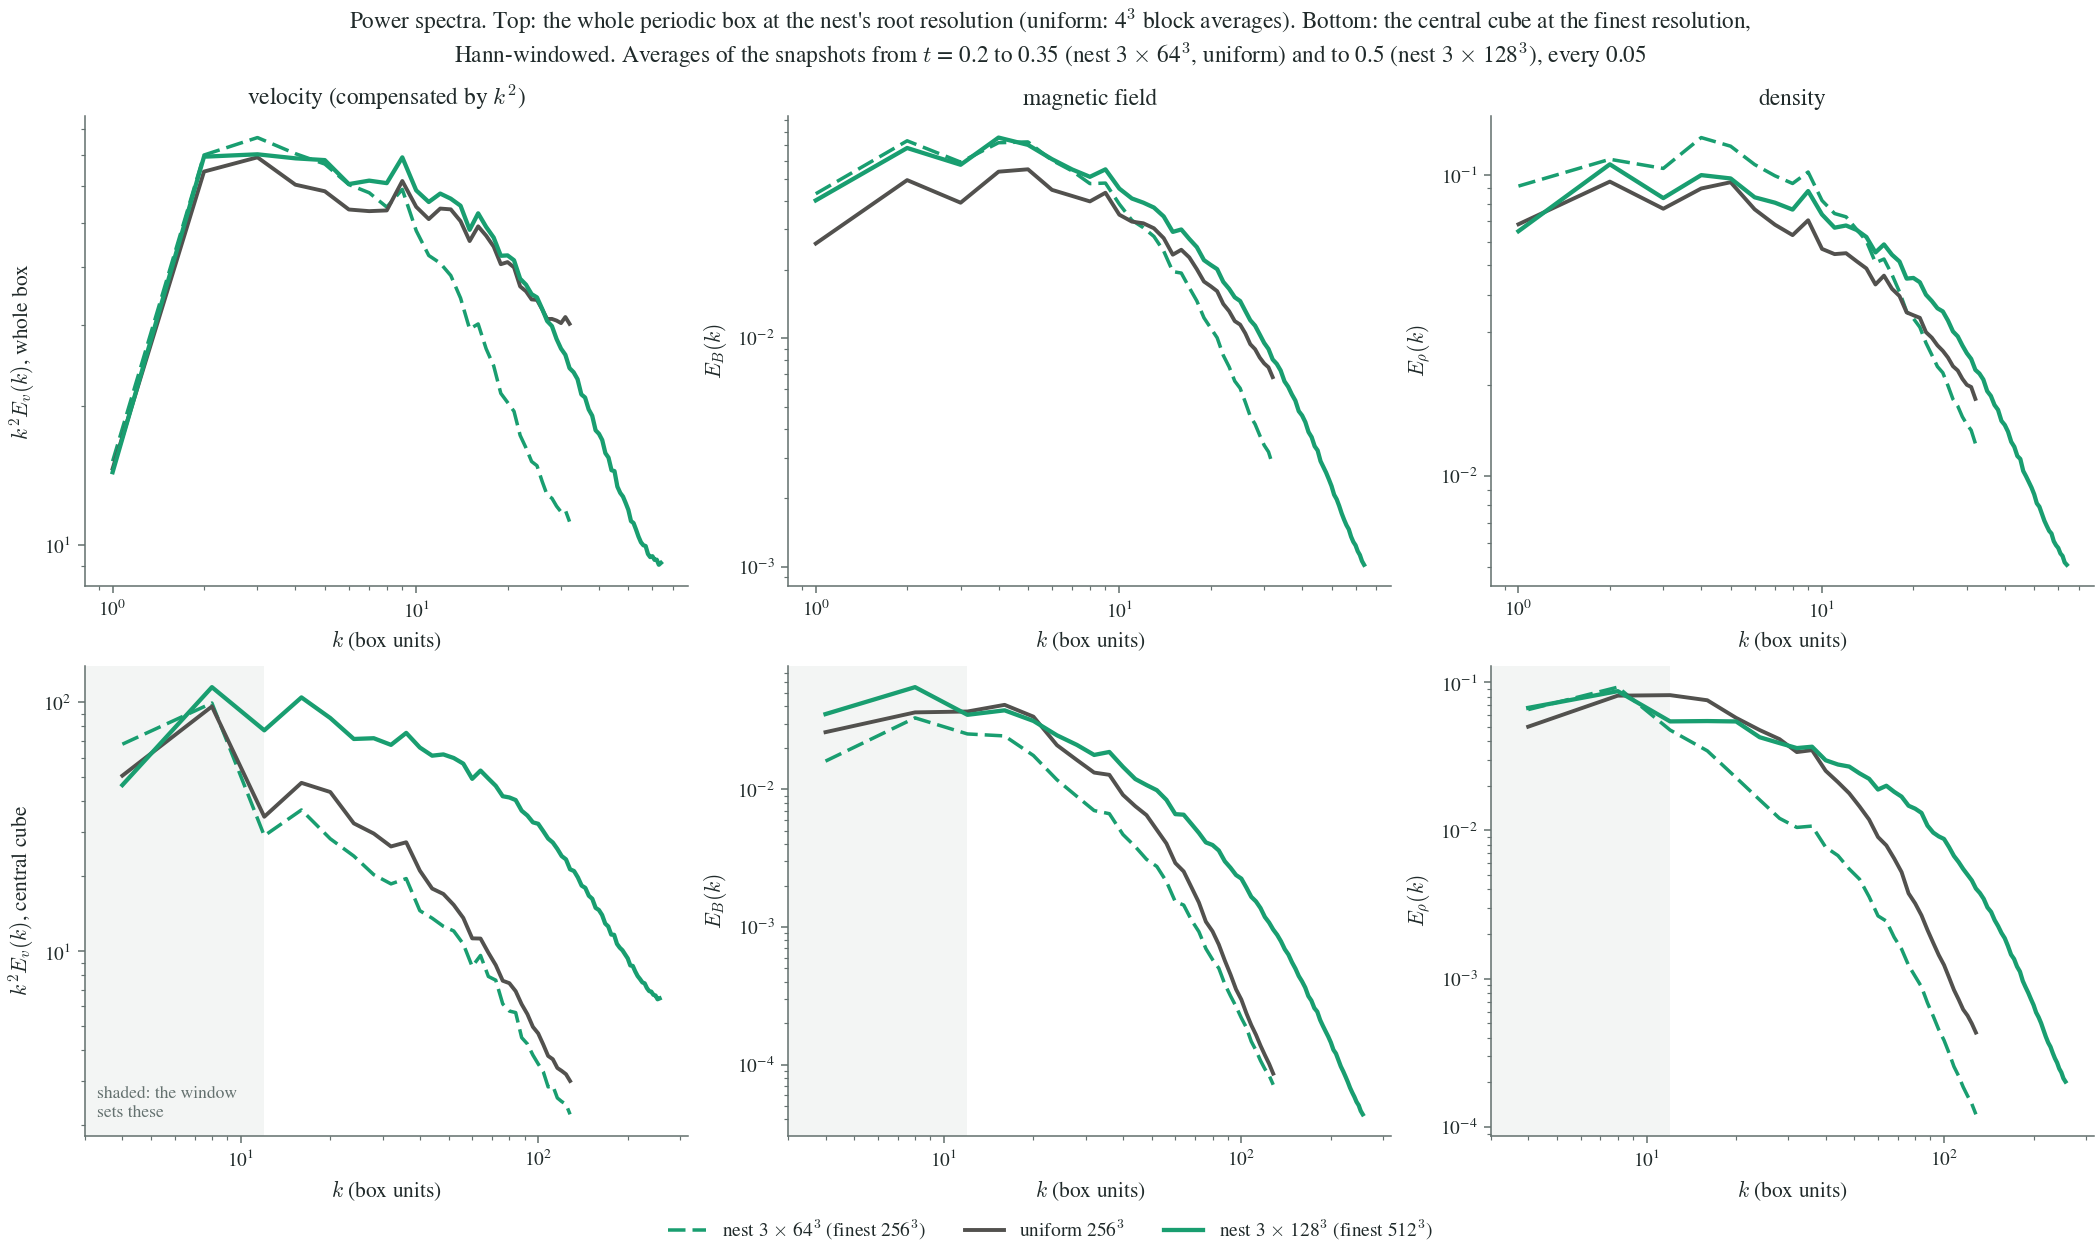
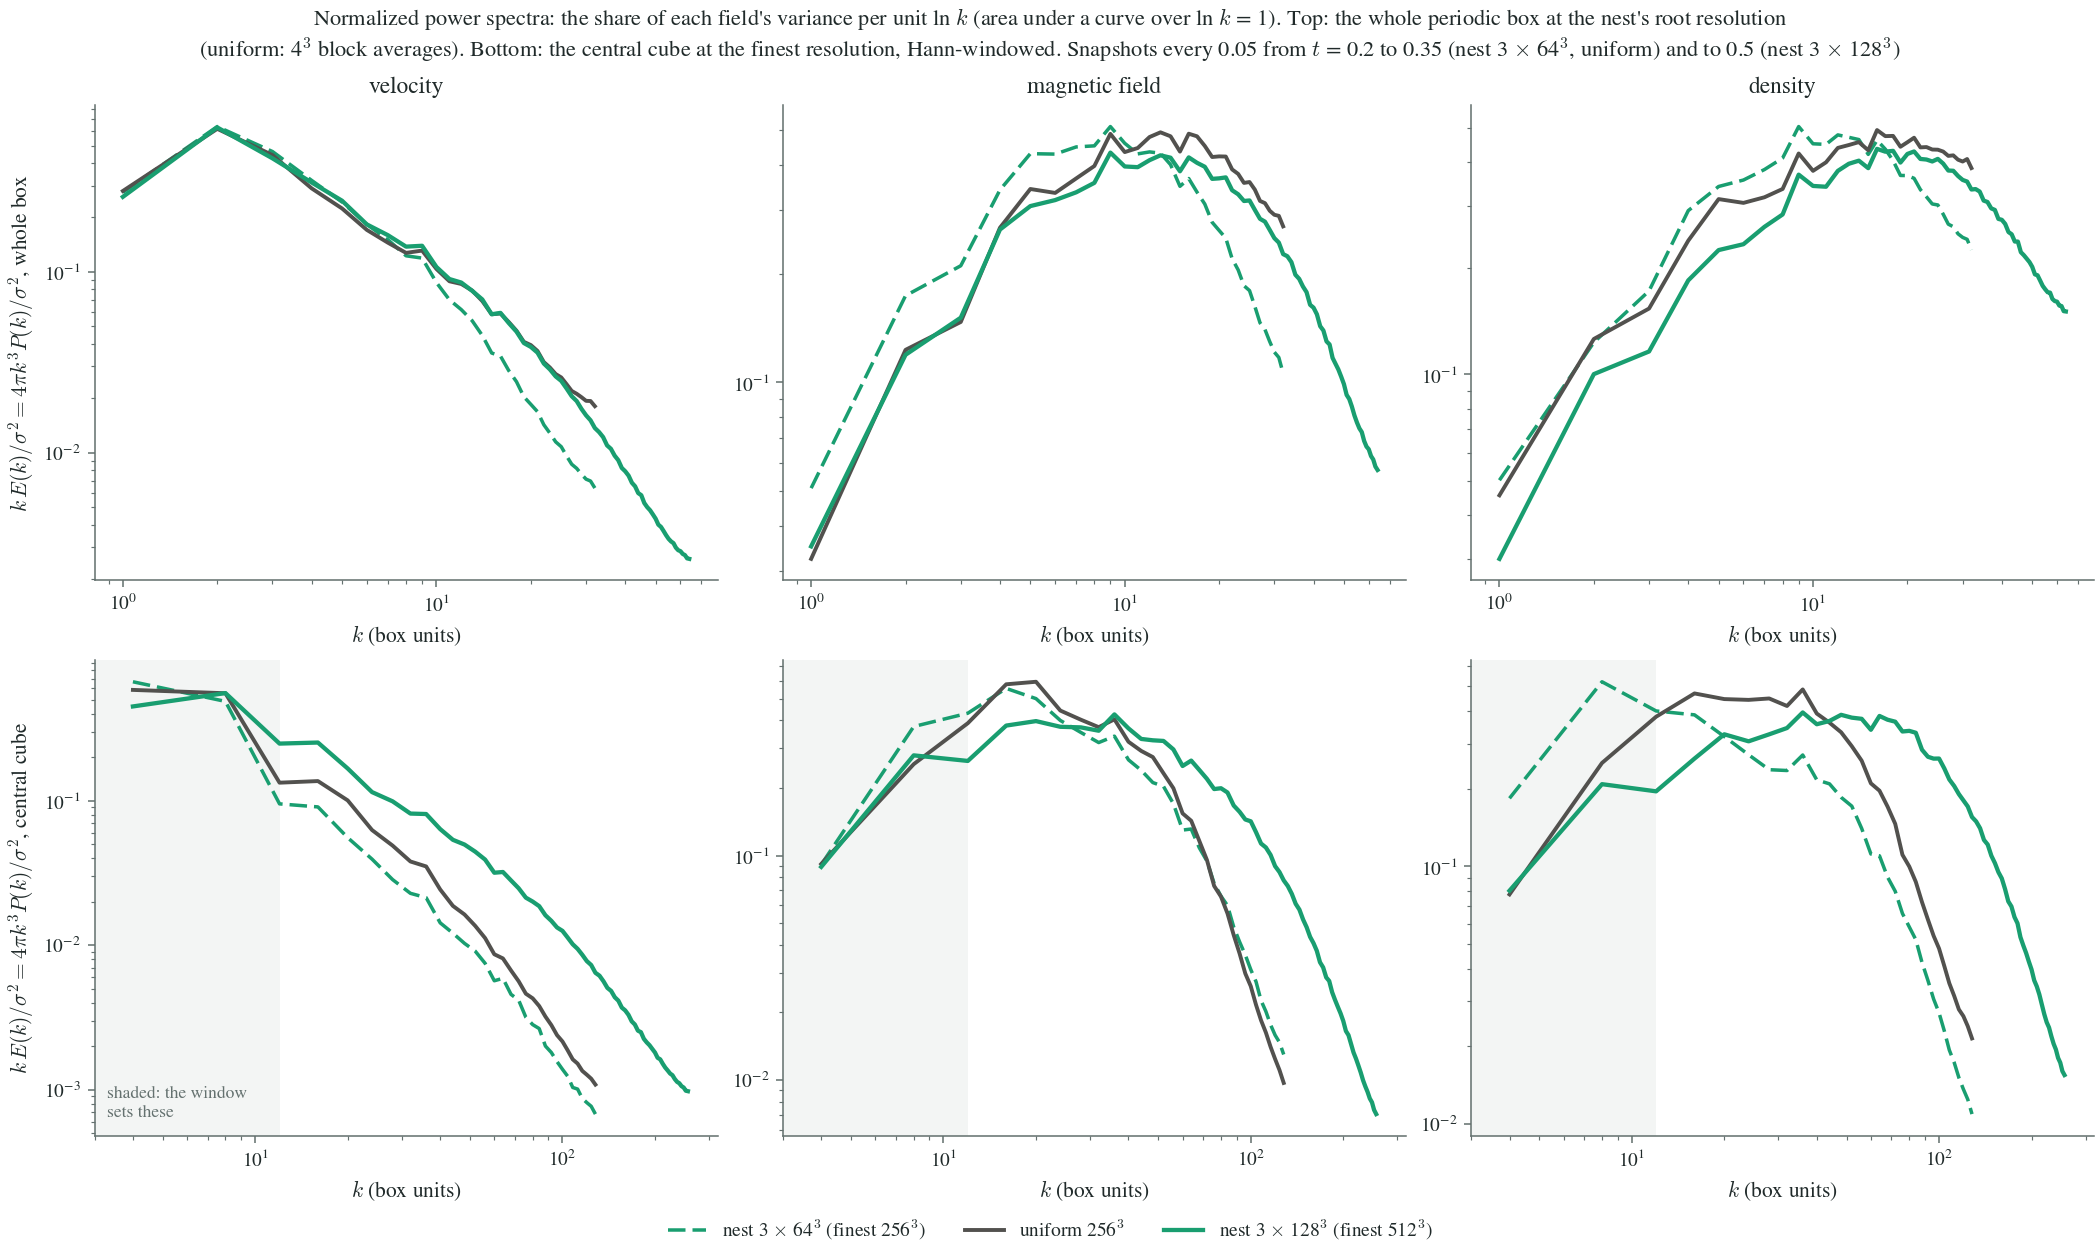
mhd: nested turbulence spectra as normalized variance per ln k

diff --git a/mhd/nested.html b/mhd/nested.html
@@ -20,17 +20,18 @@ Sherlock's H100s, which it had not run on before, fixed what stopped it in 3-D, 
 round-off (5e-05) on every level.</li>
 <li><strong>Large-scale statistics agree.</strong> Over the whole box the rms Mach number is 10.38 (nest) and 10.16 (uniform), and at t = 0.35 the
 rms field is 1.45 and 1.44. The density and speed PDFs of the central cube match.</li>
-<li><strong>Small scales do not, yet.</strong> At wave numbers 32–96 the nest's finest level carries 77 % of the uniform grid's velocity power,
-58 % of its field power and 31 % of its density power at the same resolution (figure 4).</li>
+<li><strong>Small scales do not, yet.</strong> In the central cube at the same resolution, wave numbers 32–96 hold 18 % of the density
+variance in the nest's finest level and 31 % in the uniform grid; for the velocity 1.2 % and 1.9 %, for the field
+22 % and 25 % (figure 4).</li>
 <li><strong>The uniform grids are the slow part.</strong> The uniform 256³ run stalled at t = 0.35; the uniform 512³ run reached no output in about 2 hours. Nearly empty cells
 (ρ near the floor of 10⁻⁶) make the Alfvén speed, and so the time step, collapse. The 3 × 128³ nest meets them too (figure 5).</li></ul></div><article class="card test-movie" id="movie-nest64"><h3>Movie: nest 3 × 64³ (finest 256³-equivalent)</h3>
-<video controls loop muted playsinline preload="metadata" poster="media/nested/nest64-movie.png?v=1794520634" style="width:100%;height:auto;max-height:80vh;object-fit:contain"
-aria-label="Movie: nest 3 × 64³ (finest 256³-equivalent)"><source src="media/nested/nest64-movie.mp4?v=1794520634" type="video/mp4"><a href="media/nested/nest64-movie.mp4">Download the movie</a></video>
+<video controls loop muted playsinline preload="metadata" poster="media/nested/nest64-movie.png?v=1794521017" style="width:100%;height:auto;max-height:80vh;object-fit:contain"
+aria-label="Movie: nest 3 × 64³ (finest 256³-equivalent)"><source src="media/nested/nest64-movie.mp4?v=1794521017" type="video/mp4"><a href="media/nested/nest64-movie.mp4">Download the movie</a></video>
 <p>Density and field strength in the mid-plane z = 1/2, from the uniform start to developed turbulence. 501 frames, one every 0.002 from t = 0 to 1, played at 25 per second.
 Every level is drawn in its own place at the finest resolution (coarser levels as blocks); dashed squares mark levels 2 and 3. The colour scales are fixed.
 This is a rerun of the same set-up with outputs every 0.002; stopping that often changes the time steps slightly, so it does not follow the run of the figures
 below in detail.</p>
-<p><a href="media/nested/nest64-movie.mp4?v=1794520634" download>Download MP4 · 10.6 MB</a></p></article><article class="card paper-fig" id="nested-overview"><div class="fig-head"><span class="fig-no">1</span><h3>What the 3 × 128³ nest looks like</h3></div><div class="fig-pair"><figure class="ours" style="flex-basis:552px;max-width:690px"><a class="image-link" href="media/nested/nested-overview.png?v=1794520595"><img src="media/nested/nested-overview.png?v=1794520595" alt="What the 3 × 128³ nest looks like" loading="lazy"></a></figure></div><p>The mid-plane at t = 0.5. Left: the whole box, level 1 (128³ across the box) with level 3 (the central quarter, 512³-equivalent) pasted in; level 2 is computed but was not saved in these runs (the movies show it). Right: level 3 alone. Top ln ρ, bottom log₁₀ |B|.</p></article><article class="card paper-fig" id="nested-slices"><div class="fig-head"><span class="fig-no">2</span><h3>Nest and uniform grid at the same time (t = 0.35)</h3></div><div class="fig-pair"><figure class="ours" style="flex-basis:840px;max-width:1050px"><a class="image-link" href="media/nested/nested-slices.png?v=1794520595"><img src="media/nested/nested-slices.png?v=1794520595" alt="Nest and uniform grid at the same time (t = 0.35)" loading="lazy"></a></figure></div><p>Mid-plane slices of the 3 × 64³ nest (top) and the uniform 256³ grid (bottom): the whole box at 64³ (the uniform grid averaged over 4³ blocks) and the central cube at 256³ cells across the box, the nest's finest level. Both runs have the same driving with the same random seed.</p><p class="finding"><strong>In these runs:</strong> the pictures differ: a turbulent flow is chaotic, so small differences between the two grids grow until the flows no longer match point by point, within a few crossing times (L / 10 c<sub>s</sub> = 0.1). They are compared by their statistics.</p></article><article class="card paper-fig" id="nested-stats"><div class="fig-head"><span class="fig-no">3</span><h3>Statistics</h3></div><div class="fig-pair"><figure class="ours" style="flex-basis:840px;max-width:1050px"><a class="image-link" href="media/nested/nested-stats.png?v=1794520596"><img src="media/nested/nested-stats.png?v=1794520596" alt="Statistics" loading="lazy"></a></figure></div><p>Top: PDFs over the central cube (the nest's finest level, and the same cells of the uniform grid). Bottom: rms speed and field over the whole box at the nest's root resolution, and the rms field of the central cube.</p><p class="finding"><strong>In these runs:</strong> the Mach number holds at about 10 in every run (whole-box averages 10.38, 10.16 and 10.53). The whole-box field grows in the same way in the nest and the uniform grid (1.45 and 1.44 at t = 0.35). The central cube is too small to compare its field: its rms swings between 0.45 and 1.59 in the nest and 0.70 and 1.87 in the uniform grid. The uniform grid has more weak-field cells (log₁₀ |B| below −2).</p></article><article class="card paper-fig" id="nested-spectra"><div class="fig-head"><span class="fig-no">4</span><h3>Power spectra</h3></div><div class="fig-pair"><figure class="ours" style="flex-basis:840px;max-width:1050px"><a class="image-link" href="media/nested/nested-spectra.png?v=1794520601"><img src="media/nested/nested-spectra.png?v=1794520601" alt="Power spectra" loading="lazy"></a></figure></div><p>Spectra of the velocity (times k²), the magnetic field and the density, averaged over the snapshots (every 0.05). Top: the whole periodic box at the nest's root resolution. Bottom: the central cube at the finest resolution; it is not periodic, so it is multiplied by a Hann window first, which sets the lowest wave numbers (shaded). The nest 3 × 128³ is averaged to t = 0.5, the other two to the uniform run's last output; the field is still growing, so its spectra are not compared across those times.</p><p class="finding"><strong>In these runs:</strong> over the whole box, outside its finer levels the nest is a 64³ simulation: at k = 8–24 it has 63 % of the uniform grid's velocity power. In the central cube, at the same resolution, the nest's finest level has 77 % of the velocity power, 58 % of the field power and 31 % of the density power at k = 32–96. Gas crosses the central cube (a quarter of the box) in about 0.025 at Mach 10, probably too short for the cascade to rebuild the small scales the coarser levels never had. That is the next thing to test (a larger finest level, or more levels).</p></article><article class="card paper-fig" id="nested-cost"><div class="fig-head"><span class="fig-no">5</span><h3>Cost and time step</h3></div><div class="fig-pair"><figure class="ours" style="flex-basis:840px;max-width:1050px"><a class="image-link" href="media/nested/nested-cost.png?v=1794520596"><img src="media/nested/nested-cost.png?v=1794520596" alt="Cost and time step" loading="lazy"></a></figure></div><p>Left: wall-clock time on one H100. Middle: the mean time step of the finest grid between outputs. Right: the lowest density in the central cube, and over the whole uniform 256³ grid.</p><p class="finding"><strong>In these runs:</strong> to t = 0.35 the uniform 256³ grid took 133,046 steps, 7.5 times as many as the nest's finest level (17,643). Its step fell to 3e-07 while the 3 × 64³ nest's never went below 6e-06. The cause is nearly empty cells: where ρ approaches the floor (10⁻⁶) the Alfvén speed B/√ρ becomes huge. The 3 × 128³ nest, with a finer finest level, meets them as well (its step fell to 8e-08 near t = 0.29), so they come with resolution, not with the uniform grid itself.</p></article><article class="card paper-fig" id="nested-runs"><div class="fig-head"><span class="fig-no">6</span><h3>Every run</h3></div><p>One H100 each. The nests advance each level with its own time step, so the finest level takes the most steps. The rates include the driving and the outputs every 0.01; small grids do not fill the GPU.</p><div class="table-scroll"><table class="metrics-table sweep-text paper-table"><thead><tr><th>run</th><th>finest resolution</th><th>precision</th><th>reached t</th><th>wall</th><th>steps per level (coarsest first)</th><th>cell updates</th><th>cell updates / s</th></tr></thead><tbody><tr><td>nest 3 × 64³</td><td>256³ in the central 1/4</td><td>Float64</td><td>1 (finished)</td><td>225 s</td><td>13,705 / 34,230 / 74,015</td><td>3.20e+10</td><td>1.42e+08</td></tr><tr><td>uniform 256³</td><td>256³ everywhere</td><td>Float64</td><td>0.35 (stalled; time limit)</td><td>4485 s</td><td>133,046</td><td>2.23e+12</td><td>4.98e+08</td></tr><tr><td>nest 3 × 128³</td><td>512³ in the central 1/4</td><td>Float32</td><td>0.5 (finished)</td><td>3772 s</td><td>15,814 / 69,015 / 338,881</td><td>8.89e+11</td><td>2.36e+08</td></tr><tr><td>uniform 512³</td><td>512³ everywhere</td><td>Float32</td><td>below 0.2 (no output; pre-empted after about 2 h)</td><td>–</td><td>–</td><td>–</td><td>–</td></tr></tbody></table></div></article><div class="card"><h3>Set-up</h3>
+<p><a href="media/nested/nest64-movie.mp4?v=1794521017" download>Download MP4 · 10.6 MB</a></p></article><article class="card paper-fig" id="nested-overview"><div class="fig-head"><span class="fig-no">1</span><h3>What the 3 × 128³ nest looks like</h3></div><div class="fig-pair"><figure class="ours" style="flex-basis:552px;max-width:690px"><a class="image-link" href="media/nested/nested-overview.png?v=1794521010"><img src="media/nested/nested-overview.png?v=1794521010" alt="What the 3 × 128³ nest looks like" loading="lazy"></a></figure></div><p>The mid-plane at t = 0.5. Left: the whole box, level 1 (128³ across the box) with level 3 (the central quarter, 512³-equivalent) pasted in; level 2 is computed but was not saved in these runs (the movies show it). Right: level 3 alone. Top ln ρ, bottom log₁₀ |B|.</p></article><article class="card paper-fig" id="nested-slices"><div class="fig-head"><span class="fig-no">2</span><h3>Nest and uniform grid at the same time (t = 0.35)</h3></div><div class="fig-pair"><figure class="ours" style="flex-basis:840px;max-width:1050px"><a class="image-link" href="media/nested/nested-slices.png?v=1794521010"><img src="media/nested/nested-slices.png?v=1794521010" alt="Nest and uniform grid at the same time (t = 0.35)" loading="lazy"></a></figure></div><p>Mid-plane slices of the 3 × 64³ nest (top) and the uniform 256³ grid (bottom): the whole box at 64³ (the uniform grid averaged over 4³ blocks) and the central cube at 256³ cells across the box, the nest's finest level. Both runs have the same driving with the same random seed.</p><p class="finding"><strong>In these runs:</strong> the pictures differ: a turbulent flow is chaotic, so small differences between the two grids grow until the flows no longer match point by point, within a few crossing times (L / 10 c<sub>s</sub> = 0.1). They are compared by their statistics.</p></article><article class="card paper-fig" id="nested-stats"><div class="fig-head"><span class="fig-no">3</span><h3>Statistics</h3></div><div class="fig-pair"><figure class="ours" style="flex-basis:840px;max-width:1050px"><a class="image-link" href="media/nested/nested-stats.png?v=1794521011"><img src="media/nested/nested-stats.png?v=1794521011" alt="Statistics" loading="lazy"></a></figure></div><p>Top: PDFs over the central cube (the nest's finest level, and the same cells of the uniform grid). Bottom: rms speed and field over the whole box at the nest's root resolution, and the rms field of the central cube.</p><p class="finding"><strong>In these runs:</strong> the Mach number holds at about 10 in every run (whole-box averages 10.38, 10.16 and 10.53). The whole-box field grows in the same way in the nest and the uniform grid (1.45 and 1.44 at t = 0.35). The central cube is too small to compare its field: its rms swings between 0.45 and 1.59 in the nest and 0.70 and 1.87 in the uniform grid. The uniform grid has more weak-field cells (log₁₀ |B| below −2).</p></article><article class="card paper-fig" id="nested-spectra"><div class="fig-head"><span class="fig-no">4</span><h3>Normalized power spectra</h3></div><div class="fig-pair"><figure class="ours" style="flex-basis:840px;max-width:1050px"><a class="image-link" href="media/nested/nested-spectra.png?v=1794521017"><img src="media/nested/nested-spectra.png?v=1794521017" alt="Normalized power spectra" loading="lazy"></a></figure></div><p>Each field's variance per unit ln k, k E(k)/σ² (that is 4π k³P(k)/σ² for the 3-D power P(k)), so the area under a curve over ln k is 1 and runs with different total power compare by where their variance lives. Velocity, magnetic field and density, averaged over the snapshots (every 0.05). Top: the whole periodic box at the nest's root resolution. Bottom: the central cube at the finest resolution; it is not periodic, so it is multiplied by a Hann window first, which sets the lowest wave numbers (shaded). The nest 3 × 128³ is averaged to t = 0.5, the other two to the uniform run's last output; the field is still growing, so its spectra are not compared across those times.</p><p class="finding"><strong>In these runs:</strong> over the whole box, outside its finer levels the nest is a 64³ simulation: k = 8–24 holds 6.8 % of its velocity variance against 9.0 % in the uniform grid. In the central cube, at the same resolution, k = 32–96 holds 18 % of the density variance in the nest's finest level against 31 % in the uniform grid (42 % in the 3 × 128³ nest, twice as fine); the field differs less (22 % against 25 %). Gas crosses the central cube (a quarter of the box) in about 0.025 at Mach 10, probably too short for the cascade to rebuild the small scales the coarser levels never had. A wider finest level will test that.</p></article><article class="card paper-fig" id="nested-cost"><div class="fig-head"><span class="fig-no">5</span><h3>Cost and time step</h3></div><div class="fig-pair"><figure class="ours" style="flex-basis:840px;max-width:1050px"><a class="image-link" href="media/nested/nested-cost.png?v=1794521011"><img src="media/nested/nested-cost.png?v=1794521011" alt="Cost and time step" loading="lazy"></a></figure></div><p>Left: wall-clock time on one H100. Middle: the mean time step of the finest grid between outputs. Right: the lowest density in the central cube, and over the whole uniform 256³ grid.</p><p class="finding"><strong>In these runs:</strong> to t = 0.35 the uniform 256³ grid took 133,046 steps, 7.5 times as many as the nest's finest level (17,643). Its step fell to 3e-07 while the 3 × 64³ nest's never went below 6e-06. The cause is nearly empty cells: where ρ approaches the floor (10⁻⁶) the Alfvén speed B/√ρ becomes huge. The 3 × 128³ nest, with a finer finest level, meets them as well (its step fell to 8e-08 near t = 0.29), so they come with resolution, not with the uniform grid itself.</p></article><article class="card paper-fig" id="nested-runs"><div class="fig-head"><span class="fig-no">6</span><h3>Every run</h3></div><p>One H100 each. The nests advance each level with its own time step, so the finest level takes the most steps. The rates include the driving and the outputs every 0.01; small grids do not fill the GPU.</p><div class="table-scroll"><table class="metrics-table sweep-text paper-table"><thead><tr><th>run</th><th>finest resolution</th><th>precision</th><th>reached t</th><th>wall</th><th>steps per level (coarsest first)</th><th>cell updates</th><th>cell updates / s</th></tr></thead><tbody><tr><td>nest 3 × 64³</td><td>256³ in the central 1/4</td><td>Float64</td><td>1 (finished)</td><td>225 s</td><td>13,705 / 34,230 / 74,015</td><td>3.20e+10</td><td>1.42e+08</td></tr><tr><td>uniform 256³</td><td>256³ everywhere</td><td>Float64</td><td>0.35 (stalled; time limit)</td><td>4485 s</td><td>133,046</td><td>2.23e+12</td><td>4.98e+08</td></tr><tr><td>nest 3 × 128³</td><td>512³ in the central 1/4</td><td>Float32</td><td>0.5 (finished)</td><td>3772 s</td><td>15,814 / 69,015 / 338,881</td><td>8.89e+11</td><td>2.36e+08</td></tr><tr><td>uniform 512³</td><td>512³ everywhere</td><td>Float32</td><td>below 0.2 (no output; pre-empted after about 2 h)</td><td>–</td><td>–</td><td>–</td><td>–</td></tr></tbody></table></div></article><div class="card"><h3>Set-up</h3>
 <p>Box of side 1, mean density 1, sound speed 1, isothermal. A uniform field along x with plasma β = 200 (B₀ = 0.1). A solenoidal random acceleration on
 1 ≤ |k| ≤ 3, scaled continuously to hold the rms Mach number at 10, random seed 1 in every run. Tom's MUSCL-Hancock scheme with HLL fluxes and constrained
 transport, Courant 0.25, density floor 10⁻⁶. The nests: each level has as many cells as the root (64³ or 128³) and covers the central half of the level
@@ -50,5 +51,5 @@ density stays above the lowest of its six coarse neighbours.</li>
 <li>Why the finest level is short of small-scale power: a larger finest level or more levels would tell.</li>
 <li>Longer runs of the nests, for time-averaged statistics once the field has saturated.</li></ul></div>
 </main>
-<footer><span>Drawn by scripts/nested_figures.py from nested_results/ (copied from Sherlock; sherlock_nested/README.md).</span><span>Built 2026-11-12 13:57</span></footer>
+<footer><span>Drawn by scripts/nested_figures.py from nested_results/ (copied from Sherlock; sherlock_nested/README.md).</span><span>Built 2026-11-12 14:04</span></footer>
 </body></html>
